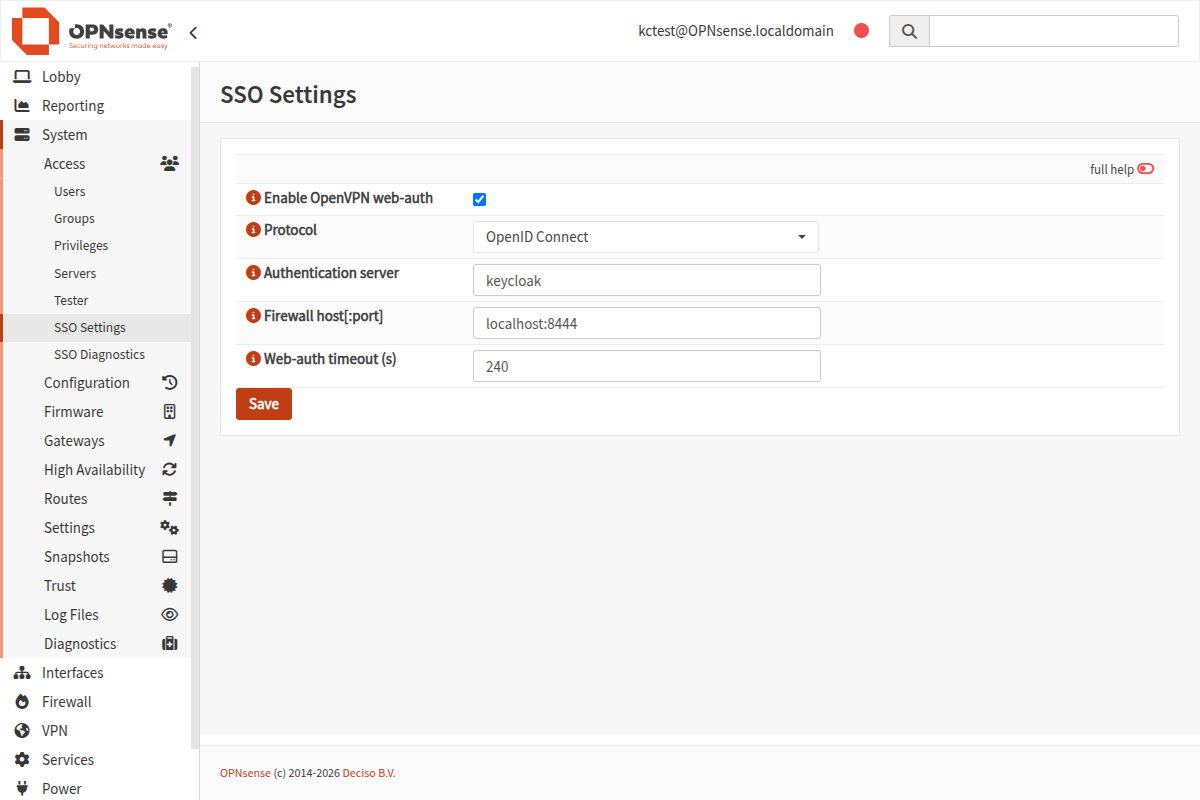
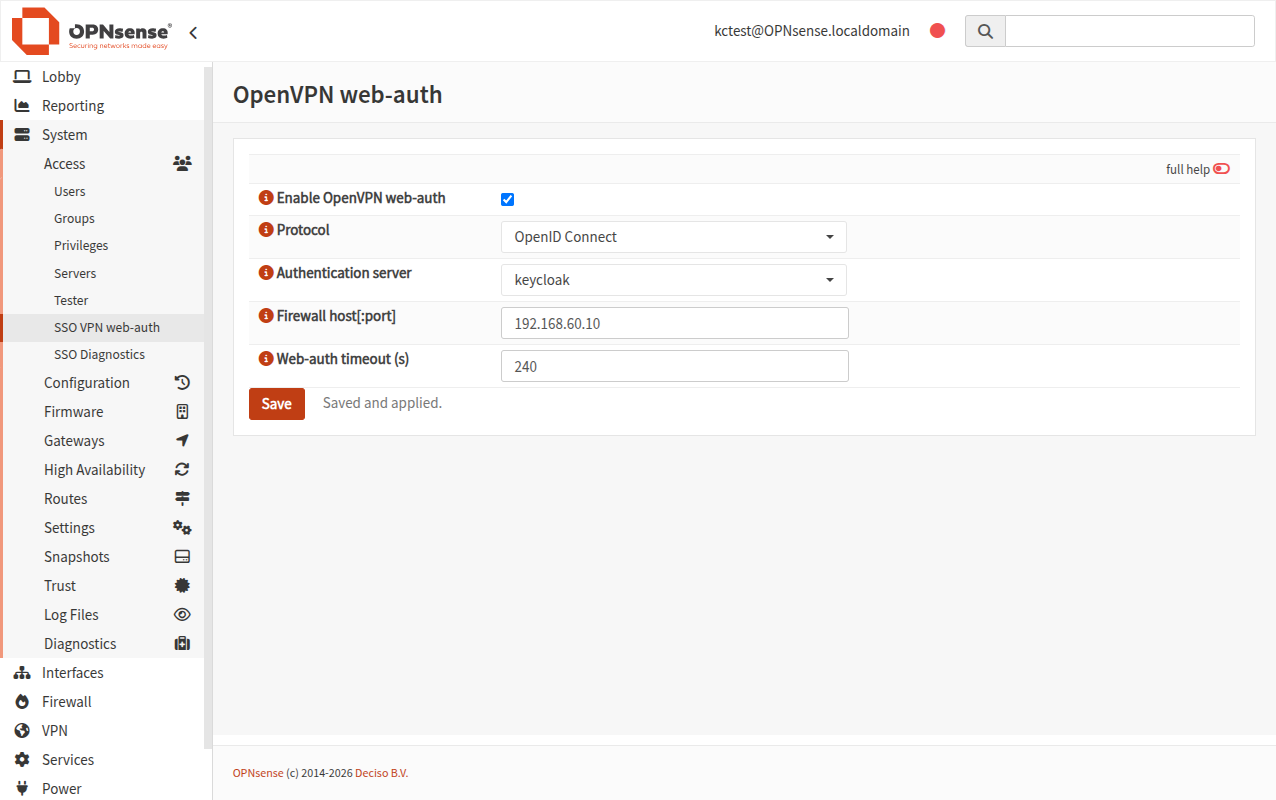
fix(ui): name the VPN page after its contents and pick the server from a list

diff --git a/src/opnsense/mvc/app/controllers/OPNsense/SSO/SettingsController.php b/src/opnsense/mvc/app/controllers/OPNsense/SSO/SettingsController.php
@@ -9,12 +9,19 @@ namespace OPNsense\SSO;
 
 use OPNsense\Base\IndexController;
 
-/** UI shell for the os-sso settings form (System > Access > SSO Settings). */
+/**
+ * UI shell for the OpenVPN web-auth form (System > Access > SSO VPN web-auth).
+ *
+ * The model behind it is called "settings" because it is the plugin's settings
+ * document, but the only thing in it today is the OpenVPN deferred web-auth wiring --
+ * everything else in os-sso is configured per authentication server. The page is
+ * named after what it actually holds, not after the model.
+ */
 class SettingsController extends IndexController
 {
     public function indexAction()
     {
-        $this->view->title = gettext('SSO Settings');
+        $this->view->title = gettext('OpenVPN web-auth');
         $this->view->formSettings = $this->getForm('settings');
         $this->view->pick('OPNsense/SSO/settings');
     }

diff --git a/README.md b/README.md
@@ -221,8 +221,9 @@ OpenVPN 2.6+ “pending auth” lets the client authenticate in a browser:
 2. It opens the URL, logs in at the IdP (passkey/MFA there).
 3. The tunnel comes up once the login succeeds.
 
-Configure it under **System ▸ Access ▸ SSO Settings**: protocol, authentication
-server, the host the client's browser opens, and the web-auth timeout. Saving writes
+Configure it under **System ▸ Access ▸ SSO VPN web-auth**: protocol, the
+authentication server (picked from the configured OIDC/SAML servers), the host the
+client's browser opens, and the web-auth timeout. Saving writes
 `/usr/local/etc/sso/vpn.conf` (no more editing it over SSH). Then point the OpenVPN
 server at the script:
 
